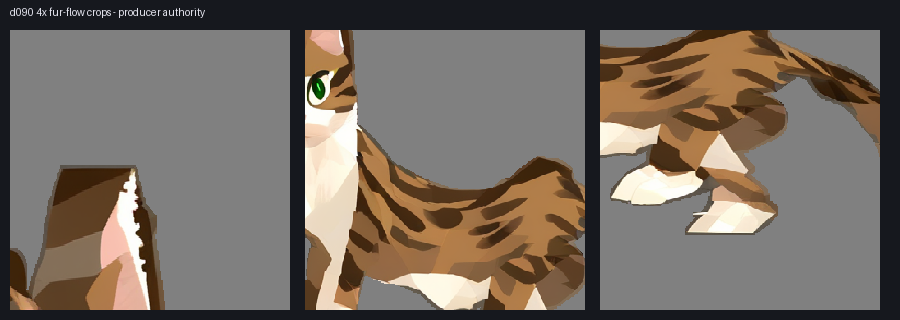
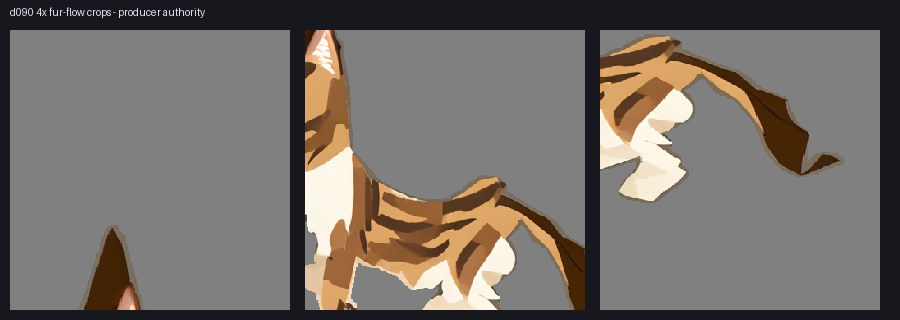
docs(m2.2): ctrl-refit 三向复审 — d225/d315 PASS, d090 仍 FAIL
制作人 4x 权威：6/7 PASS，仅 d090 碎肢未过；停合拢、不冻 fur_albedo。

diff --git a/docs/validation/m2_2_8dir/PRODUCER_SUMMARY_ZH.md b/docs/validation/m2_2_8dir/PRODUCER_SUMMARY_ZH.md
@@ -1,25 +1,32 @@
 # M2.2 制作人自审摘要（诚实版）
 
-**时间**：2026-10-30（Asia/Shanghai）  
-**结论**：**未完成合拢**。Mac MPS（Union ControlNet + IP-Adapter）已生成互补 7 向 unlit albedo；失败四向已按脚本 `b097819`（`--seed-offset 10007` + 分向 VIEW_TUNING + depth 灰底掩膜）重跑。制作人复审门禁现为 **4 PASS / 3 FAIL**（d000 本轮转 PASS；d090/d225/d315 仍 FAIL；既有 d135/d180/d270 PASS **未动**）。**因仍有 3/7 FAIL 继续停合拢**。`fur_albedo.png` 仍为 **M2.1 d045 单向**，整张 UV **不冻**；**未进 M3**。
+**时间**：2026-10-30（Asia/Shanghai）· ctrl_refit `33ed84f` 后三向重生复审  
+**结论**：**仍未完成合拢**。控制图 refit 后仅重生 d090/d225/d315（`--seed-offset 20011`）；制作人 4x 现为 **6 PASS / 1 FAIL**（d225、d315 本轮转 PASS；**d090 仍 FAIL**；既有 d000/d135/d180/d270 PASS **未动**）。**因仍有 1/7 FAIL 继续停合拢**。`fur_albedo.png` 仍为 **M2.1 d045 单向**，整张 UV **不冻**；**未进 M3**。
 
-**控制图（本轮）**：已对 FAIL 三向 `d090/d225/d315` 用 `export_control_views.py --fit-margin 0.08` 重导出（拉远+居中+退化三角剔除）；PASS 向控制图 sha 未动。对照板见 `docs/validation/m2_2_8dir/control_maps/refit_{depth,clay}_sheet.png`。**SDXL 待制作人过目控制图后再开跑**；当前仍停合拢、不冻 fur_albedo、不开 M3。
+**本轮参数**：`generate_complementary_sdxl.py --run --views d090,d225,d315 --seed-offset 20011 --merge-report`；log `logs/m22/rerun_ctrlrefit_20261030_120716.log`；旧 FAIL 归档 `complementary_albedos/archive/pre_ctrl_refit_33ed84f/`。CLIP77 截断仍在（印记/向别约束被挤）。
 
-## 现状（2026-10-30 · rerun 后）
+## 4x 互补视角门禁（制作人权威 · 2026-10-30 ctrl_refit 复审）
 
-| 项 | 状态 |
-|---|---|
-| 生成设备 | **Mac Apple Silicon MPS**（非 CUDA 租机） |
-| SDXL + Union ControlNet + IP-Adapter | **已跑完** 首轮 7 向；失败四向重跑 tip/脚本 **`b097819`** |
-| 重跑参数 | `--views d000,d090,d225,d315 --seed-offset 10007 --merge-report`；log `logs/m22/rerun_fails_20261030_114820.log` |
-| 互补 albedo | `cats/miemie/identity_v1/complementary_albedos/{d000..d315}_unlit_albedo.png`（本地未 commit 原图；旧 FAIL 归档 `archive/pre_rerun_228f7d7/`） |
-| 4x 门禁 | 已写 `gates/{view}_fur_flow_gate.json` + `gates_preview_{view}_4x.png`；权威=4x 肉眼 |
-| 合拢 `fuse_8dir_albedo.py` | **未跑**（硬停：d090/d225/d315 仍 FAIL） |
-| `fur_albedo` 冻结 | **未冻** |
-| M3 | **未开** |
-| CLIP77 截断风险 | **仍在**：重跑时 d000/d090/d225 的 `prompt_extra` 后半被 CLIP 77 token 截断；后续重跑需缩短 base prompt 或把关键约束提前 |
-| 旧阻塞文件 | `generation_BLOCKED.json` 已迁至 `complementary_albedos/archive/`（避免与现报告打架） |
+| view | 结果 | notes（原样） |
+|---|---|---|
+| d000 | **PASS**（锁） | rerun+seed_offset10007 后 4x：绿眼可读；白爪无大灰边；解剖右焦糖斑/花生嘴套可见（相对首轮白罩改善）；剪影外鬼影已清。CLIP77 截断仍在，风格偏碎面。authority=4x PASS |
+| d090 | **FAIL**（ctrl_refit 后仍败） | ctrl_refit+重跑后仍 FAIL：顶裁/翼刺已消，但四肢/尾仍呈断开碎面、非单一干净相机猫形；albedo外溢depth（a_only≈27k，高于PASS/d225/d315）；相对PASS侧向条（d270）像度不够。authority=4x FAIL |
+| d135 | **PASS**（锁） | 4x PASS：与 depth 同向动态姿；毛流沿体、白袜清晰、绿眼可读、未见塑料椭圆与明显灰边；侧别印记在可见面守恒。authority=4x |
+| d180 | **PASS**（锁） | 4x PASS：背向视图；背纹毛流顺 depth；未见塑料椭圆；背向不要求正脸绿眼全貌。authority=4x |
+| d225 | **PASS**（本轮） | ctrl_refit后4x PASS：相对旧版熔融裁切已消；三四分背侧姿完整入画；绿眼可读；白爪/白围脖清晰；未见塑料椭圆与大块灰边；侧别焦糖/虎斑在可见面守恒。authority=4x PASS |
+| d270 | **PASS**（锁） | 4x PASS：侧向绿眼/白围脖白爪可读，虎斑顺体；颈后有轻微碎边记入notes但不否决。authority=4x |
+| d315 | **PASS**（本轮） | ctrl_refit后4x PASS：碎三角爆炸已消；背斜姿头耳尾对齐；虎斑顺体；白爪可读；无大灰边/塑料椭圆。authority=4x PASS |
 
+**汇总**：6 PASS · 1 FAIL（仅 d090）→ **仍停合拢**。禁止程序化退回充数；可只重跑 d090，勿动已 PASS 六向；**全 PASS 前禁止 fuse / 不冻 fur_albedo / 不开 M3**。
+
+### 制作人下一步建议
+- 只针对 **d090**：先查 ControlNet 强度/种子/CLIP77（把五印记+「single clean side profile cat, intact four legs, no floating shards」提到 prompt 头并缩短 base），必要时再看侧向 clay 是否仍有退化折面。
+- 通过后再 fuse → coverage → 双层审核板 → 用户肉眼拍板冻结。
+
+---
+
+
+## 沿用（权重 / 路径 / 诚实原则）
 ### 已锁定可商用权重（模型卡许可证）
 
 见 `generated/LICENSED_STACK.md`：
